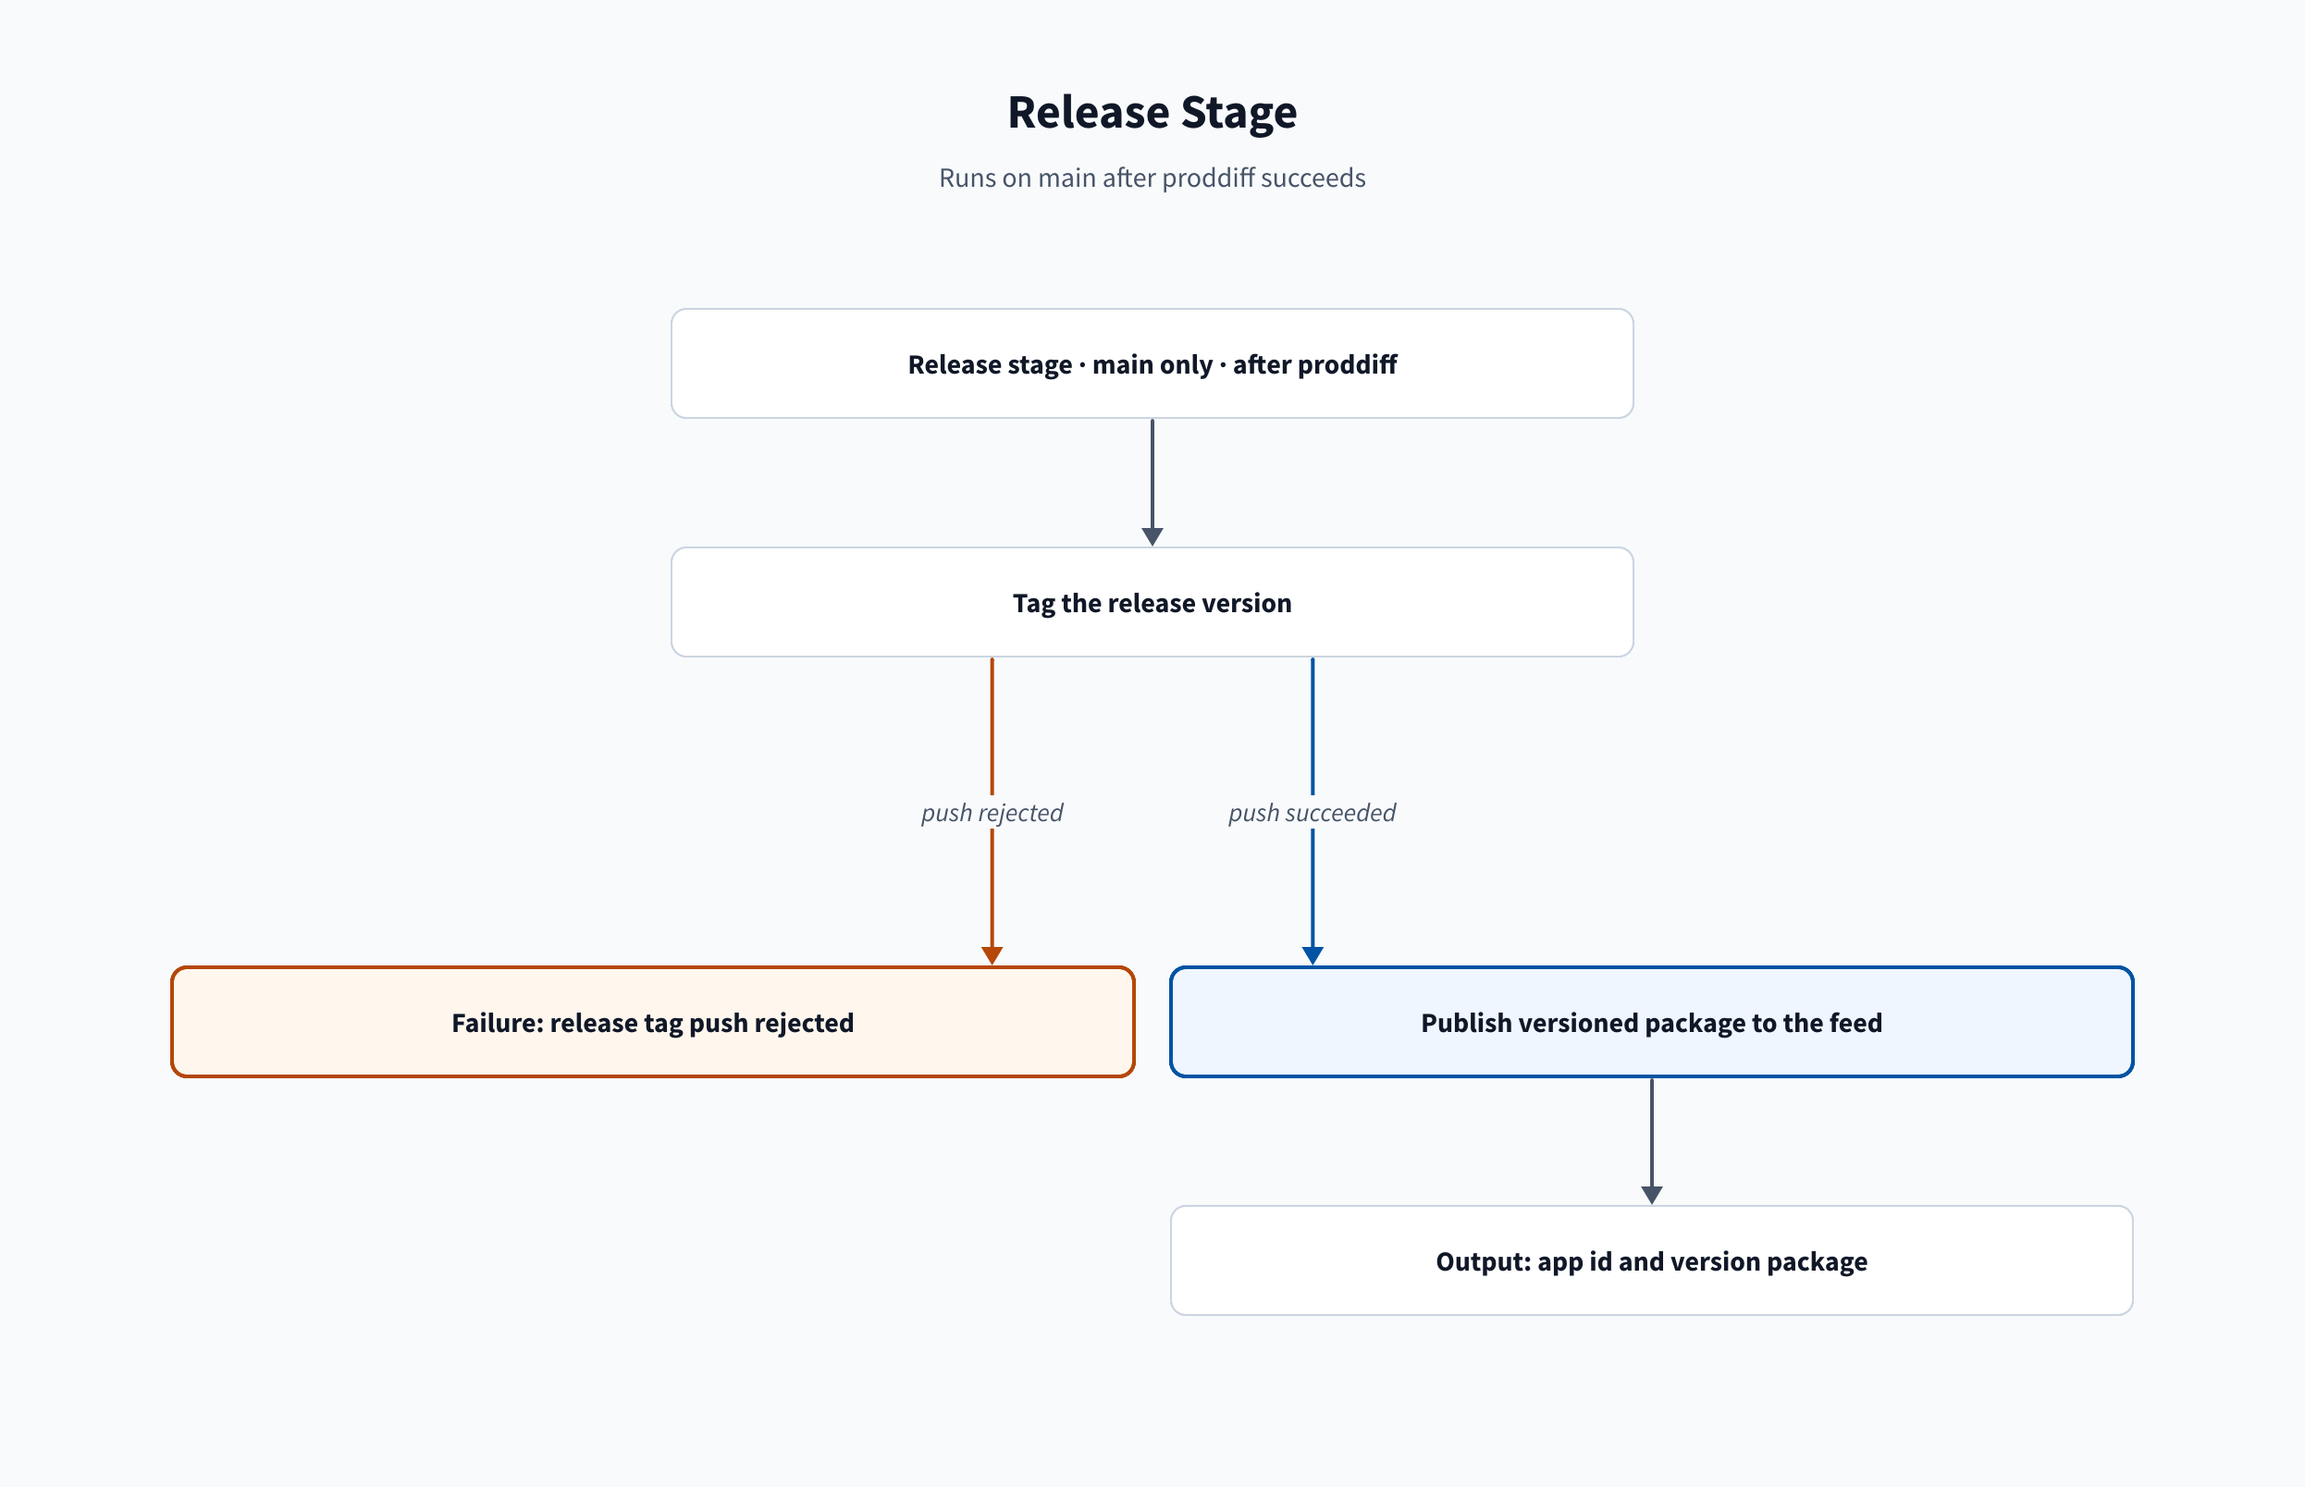
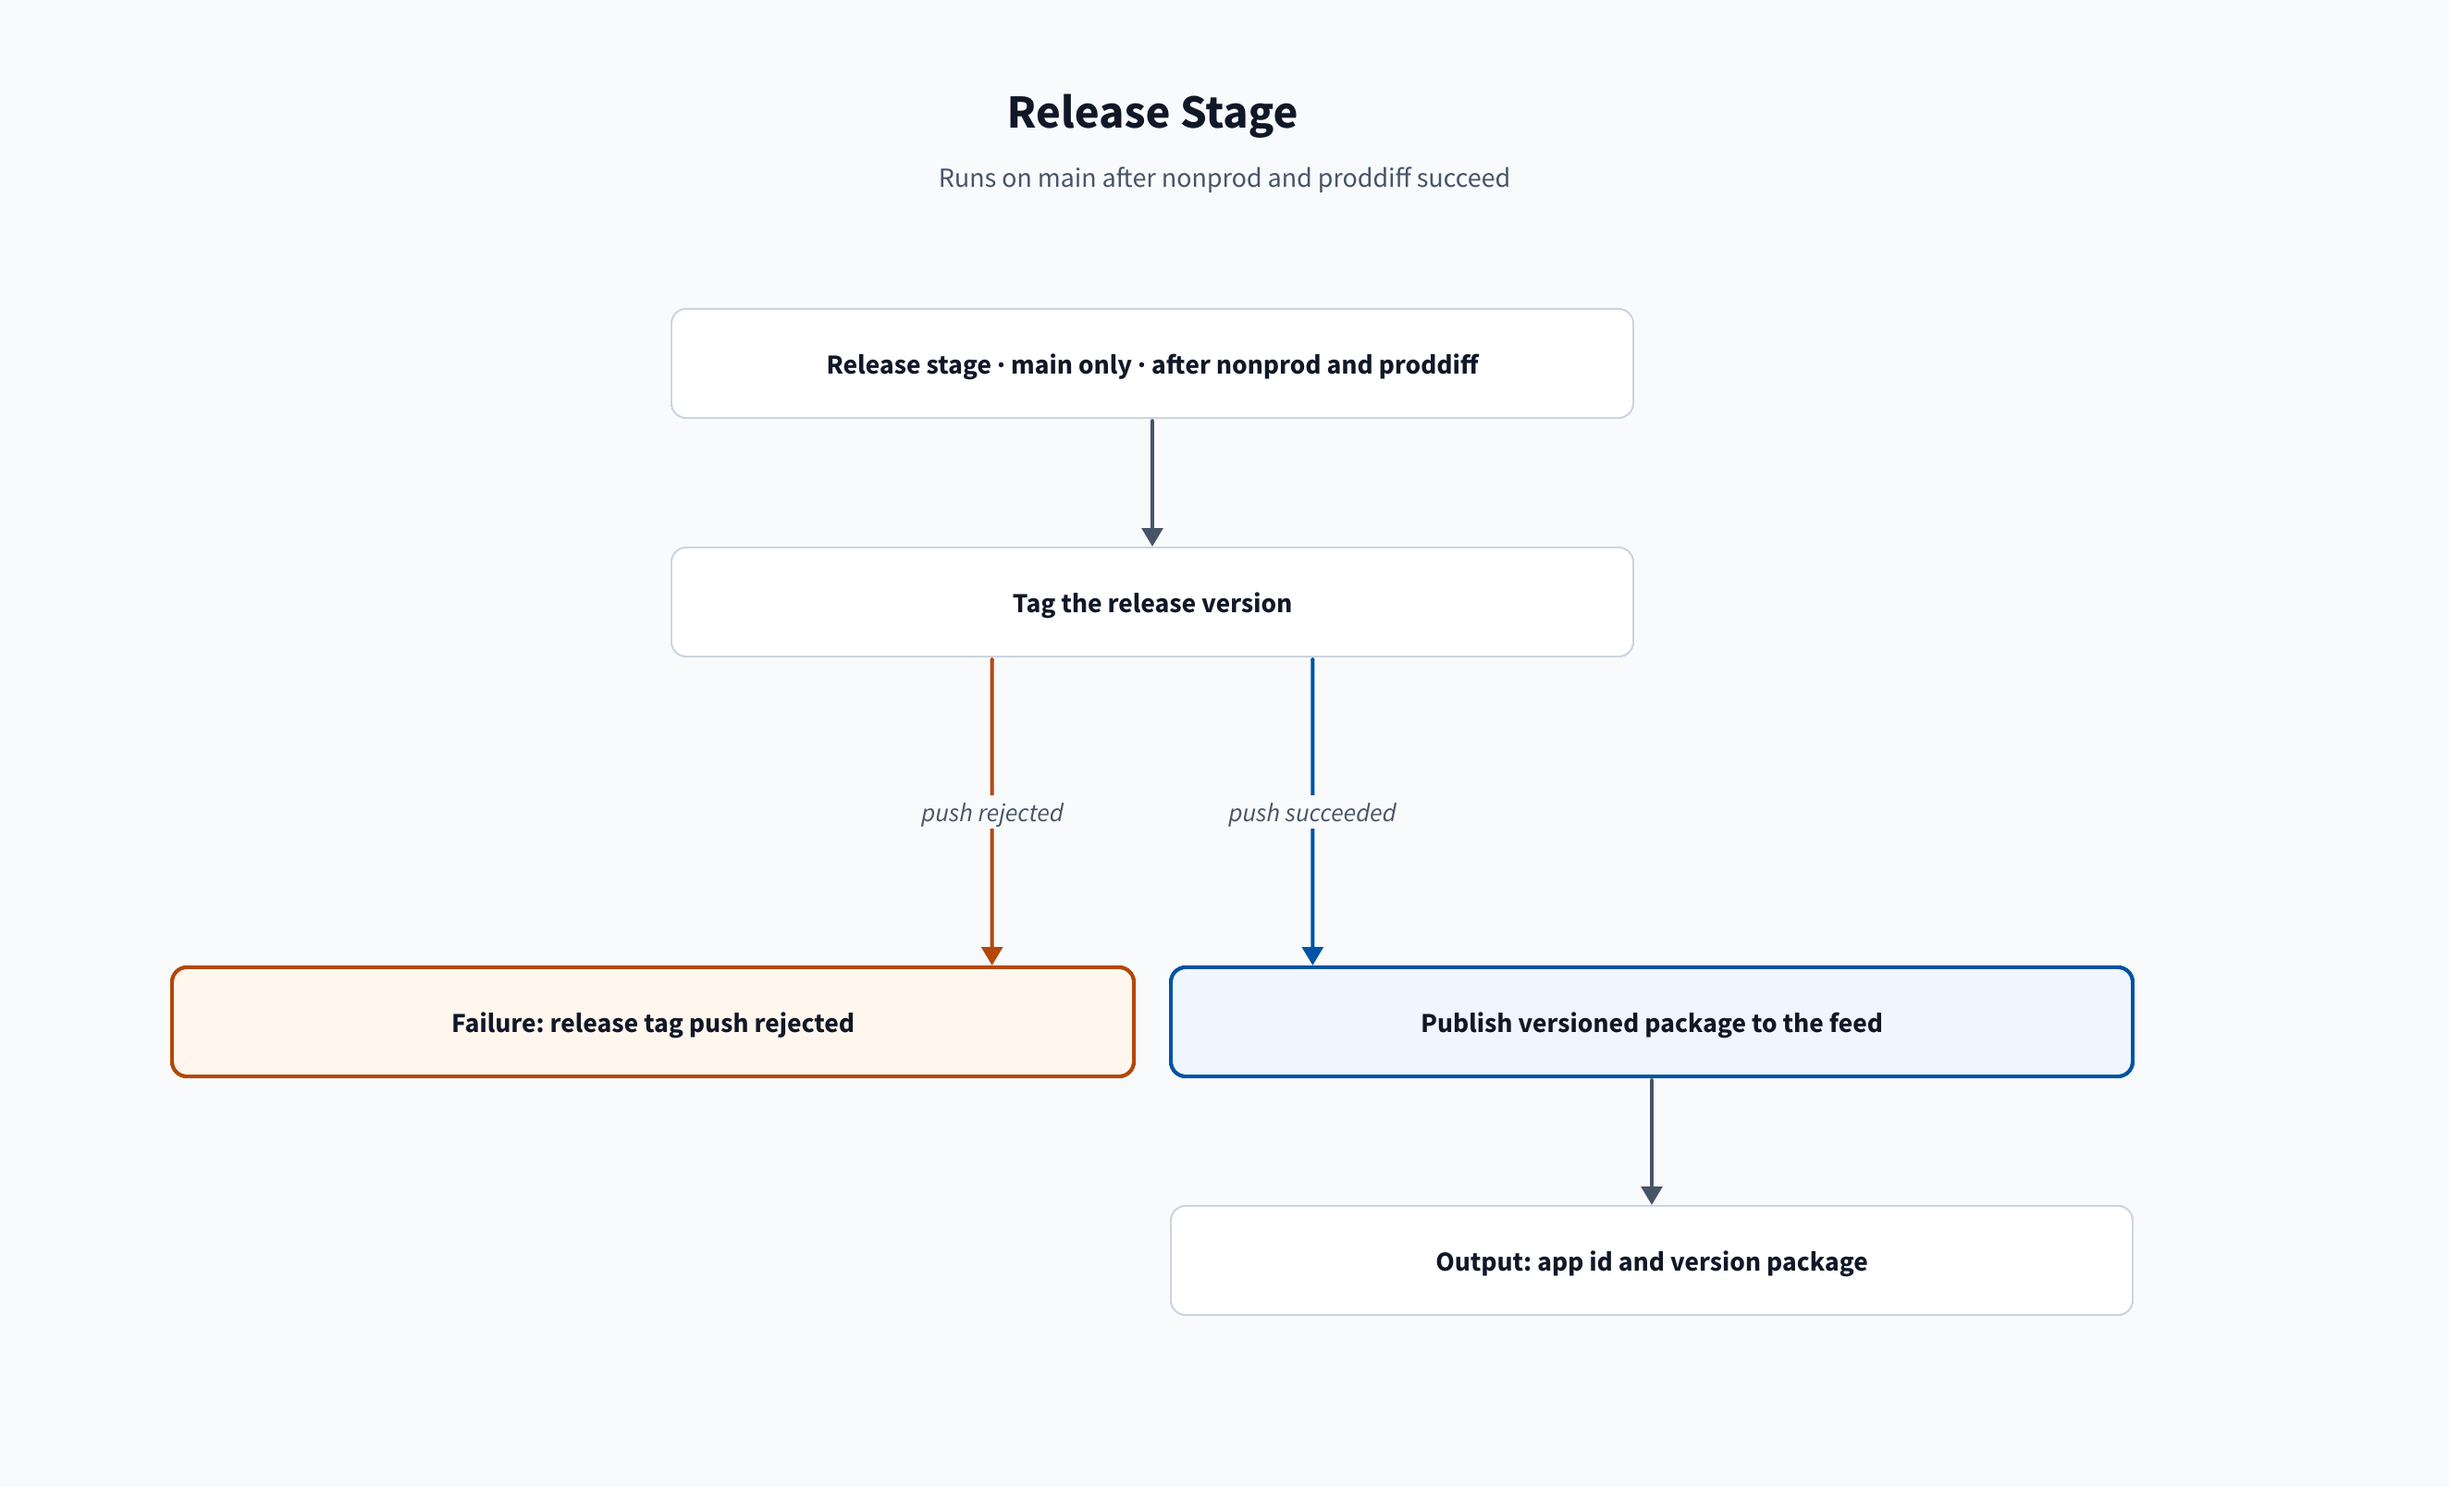
feat: the prod compare runs in parallel with the nonprod deploy
The proddiff stage depends on appinspect. The release stage depends on
nonprod and proddiff. The Stages page and the run diagrams match.

Assisted-by: Claude:claude-opus-5-5
Claude-Session: https://claude.ai/code/session_012K1WMVVGuBBEWeLF79g4Uc

diff --git a/wiki/Reference/Stages.md b/wiki/Reference/Stages.md
@@ -9,8 +9,8 @@ stages that other pipelines share.
 | 2 | `appinspect` | AppInspect | After `build`, unless the build pushed a version bump |
 | 3 | `nonproddiff` | Compare with nonprod | Pull request or `main` |
 | 4 | `nonprod` | Deploy to nonprod | Pull request or `main`, after `nonproddiff` |
-| 5 | `proddiff` | Compare with prod | Pull request or `main`, after `nonprod` |
-| 6 | `release` | Release | `main`, after `proddiff` |
+| 5 | `proddiff` | Compare with prod | Pull request or `main`, after `appinspect`, in parallel with `nonprod` |
+| 6 | `release` | Release | `main`, after `nonprod` and `proddiff` |
 | 7 | `prod` | Deploy to prod | `main`, after `release`, after approval |
 
 The import stages, `import_nonprod` and `import_prod`, run only when an import option is selected. See
@@ -120,7 +120,7 @@ template can uninstall the app before installation when that is enabled.
 
 Stage `proddiff`, displayed as **Compare with prod**:
 
-- **Does:** runs after `nonprod` on pull requests and `main` runs.
+- **Does:** runs after `appinspect`, in parallel with `nonprod`, on pull requests and `main` runs.
 - **Inputs:** the `dist` package, the `splunk-prod` group, and the `splunk-itsi-prod` group.
 - **Outputs:** the `prod-diff-<app-id>-<attempt>` and `itsi-prod-diff-<app-id>-<attempt>` artifacts.
 
@@ -133,7 +133,7 @@ tools, sets up the ACS CLI, checks the stack status, and exports the installed a
 
 Stage `release`:
 
-- **Does:** runs after `proddiff` on `refs/heads/main`.
+- **Does:** runs after `nonprod` and `proddiff` on `refs/heads/main`.
 - **Inputs:** `dist`, the app repo checkout, the repository credentials, and the `splunk-apps` package feed.
 - **Outputs:** the version tag, and the Universal Package in the feed.
 
